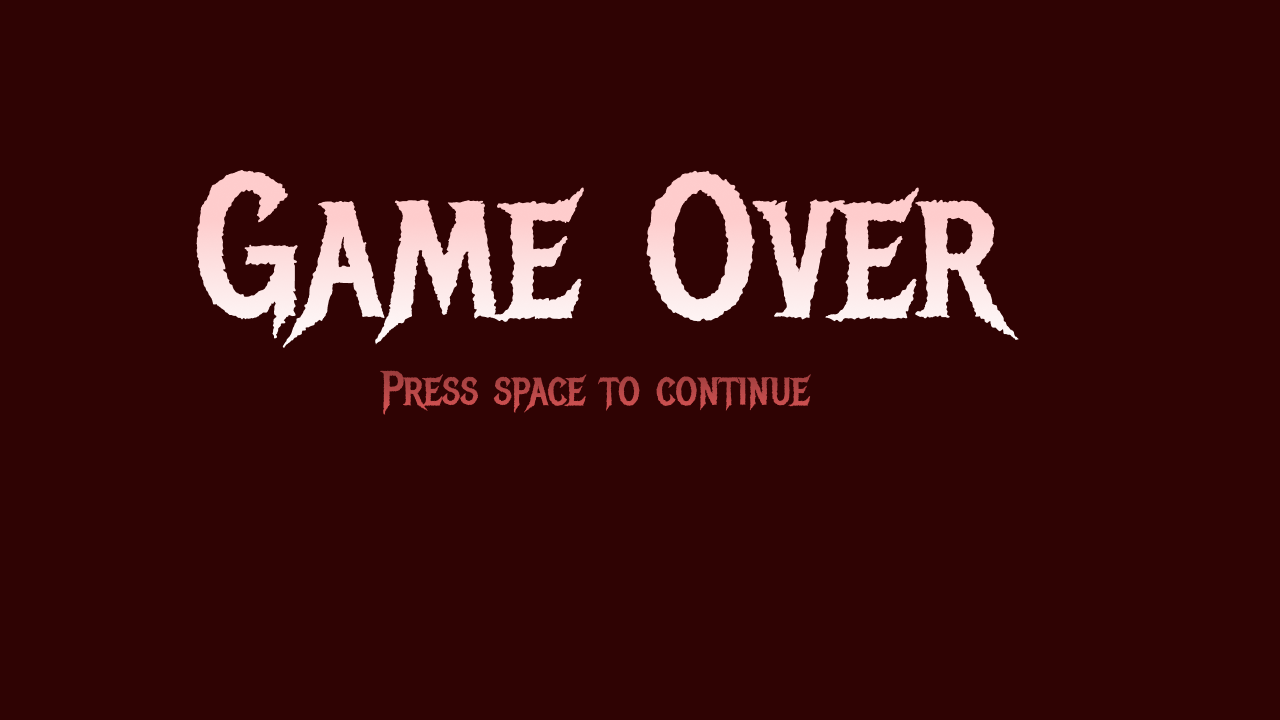
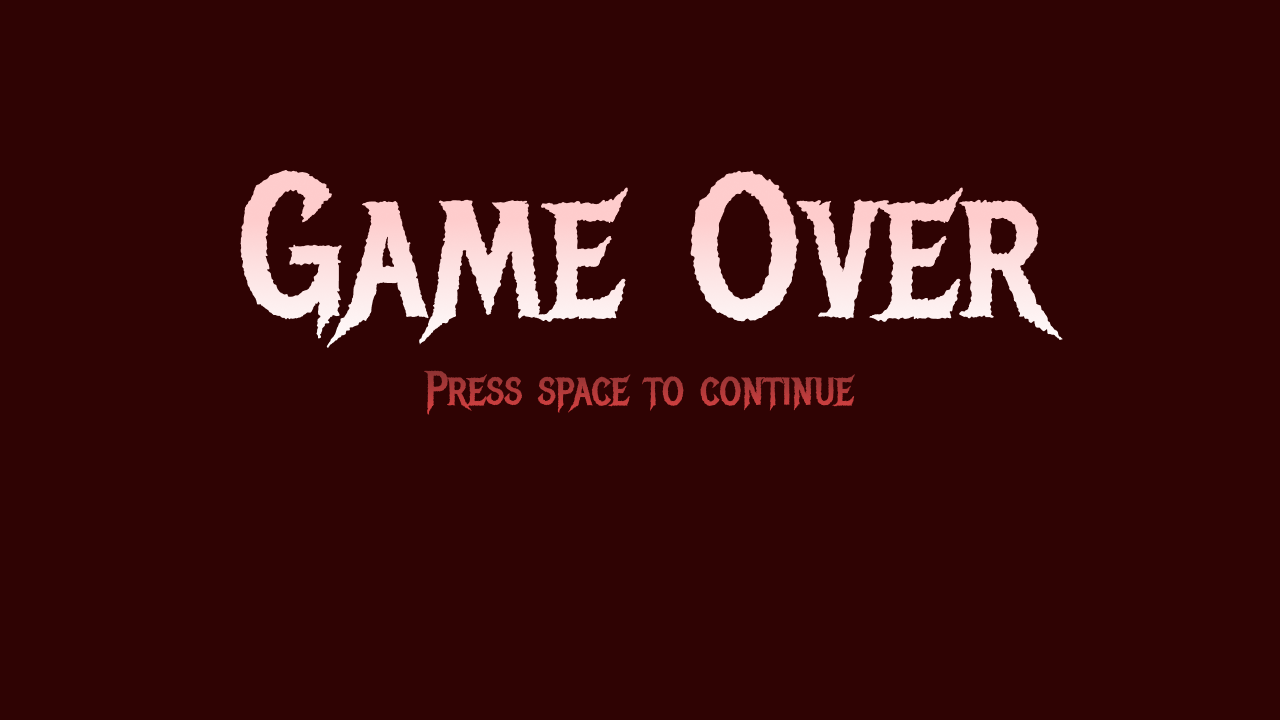
centralized game over

Changed region(s): [[0.1562, 0.2139, 0.8438, 0.4889], [0.2812, 0.5194, 0.6875, 0.5806]]

diff --git a/src/input/input.c b/src/input/input.c
@@ -94,18 +94,15 @@ void	game_input(mlx_key_data_t keydata, t_app *cbd, t_audio *audio)
 		stop_sound(audio, SND_SAW_IDLE);
 	// Player movement input
 	cbd->playerdata.state = PLAYER_IDLE;
-	if (cbd->menudata->state == OFF)
-	{
-		if (mlx_is_key_down(cbd->mlx, MLX_KEY_UP)
-			|| mlx_is_key_down(cbd->mlx, MLX_KEY_DOWN)
-			|| mlx_is_key_down(cbd->mlx, MLX_KEY_W)
-			|| mlx_is_key_down(cbd->mlx, MLX_KEY_S)
-			|| mlx_is_key_down(cbd->mlx, MLX_KEY_A)
-			|| mlx_is_key_down(cbd->mlx, MLX_KEY_D))
-			cbd->playerdata.state = PLAYER_WALKING;
-		if (cbd->playerdata.state != PLAYER_IDLE && mlx_is_key_down(cbd->mlx, MLX_KEY_LEFT_SHIFT))
-			cbd->playerdata.state = PLAYER_RUNNING;
-	}
+	if (mlx_is_key_down(cbd->mlx, MLX_KEY_UP)
+		|| mlx_is_key_down(cbd->mlx, MLX_KEY_DOWN)
+		|| mlx_is_key_down(cbd->mlx, MLX_KEY_W)
+		|| mlx_is_key_down(cbd->mlx, MLX_KEY_S)
+		|| mlx_is_key_down(cbd->mlx, MLX_KEY_A)
+		|| mlx_is_key_down(cbd->mlx, MLX_KEY_D))
+		cbd->playerdata.state = PLAYER_WALKING;
+	if (cbd->playerdata.state != PLAYER_IDLE && mlx_is_key_down(cbd->mlx, MLX_KEY_LEFT_SHIFT))
+		cbd->playerdata.state = PLAYER_RUNNING;
 	// If animation loop is false, check if player selects new item
 	if (!cbd->playerdata.inv->weapons[cbd->playerdata.inv->equipped].fire_animation->loop)
 	{

diff --git a/src/init/cbd_init.c b/src/init/cbd_init.c
@@ -36,7 +36,7 @@ t_menu	*cbd_init_menu(mlx_t *mlx, t_map *map)
 	menu->select_menu.cursor = menu->main_menu.cursor;
 
 	// Game over
-	menu->game_over.bg = cbd_init_texture_img(mlx, "./data/menu/game_over2.png");
+	menu->game_over.bg = cbd_init_texture_img(mlx, "./data/menu/game_over.png");
 	menu->game_over.cursor = menu->main_menu.cursor;
 
 	menu->select_menu.preview_img = cbd_init_texture_img(mlx, "./data/textures/map_preview.png");
